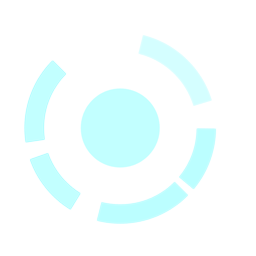
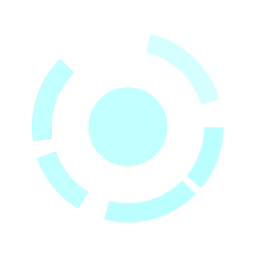
Added new ring images

diff --git a/src/scripts/Dota.js b/src/scripts/Dota.js
@@ -48,17 +48,18 @@ class Dota extends React.Component {
 
           {/* LEFT SIDE OF THE DIV */}
           <div className="md:h-full sm:w-1/2 flex flex-col" id="leftside">
-            <div className="realtive m-10 md:m-auto font-bold text-7xl">
-
+            <div className="relative m-10 md:m-auto fo  nt-bold text-7xl">
+                  {/* RINGS */}
                   <div id="RINGS">
                     <div className="absolute transform -translate-y-20">
-                      <img src={IRING} style={{ "animation": "spin 5s linear infinite", "animation-direction": "normal" }}></img>
+                      <img src={IRING} style={{ "animation": "spin 5s linear infinite", "animation-direction": "normal","height":"5em","min-width":"5em","overflow":"visible"}} className=""></img>
                     </div>
 
                     <div className="absolute transform -translate-y-20">
-                      <img src={ORING} style={{ "animation": "spin 7s linear infinite", "animation-direction": "reverse" }}></img>
+                      <img src={ORING} style={{ "animation": "spin 7s linear infinite", "animation-direction": "reverse","height":"5em","min-width":"5em","overflow":"visible" }}></img>
                     </div>
                   </div>
+
               <div id="dotax" className="neonText transform -skew-y-6 transition duration-500 ease-in-out hover:-translate-y-1 hover:scale-110 text-white select-none" >
                 DOTA
               </div>
